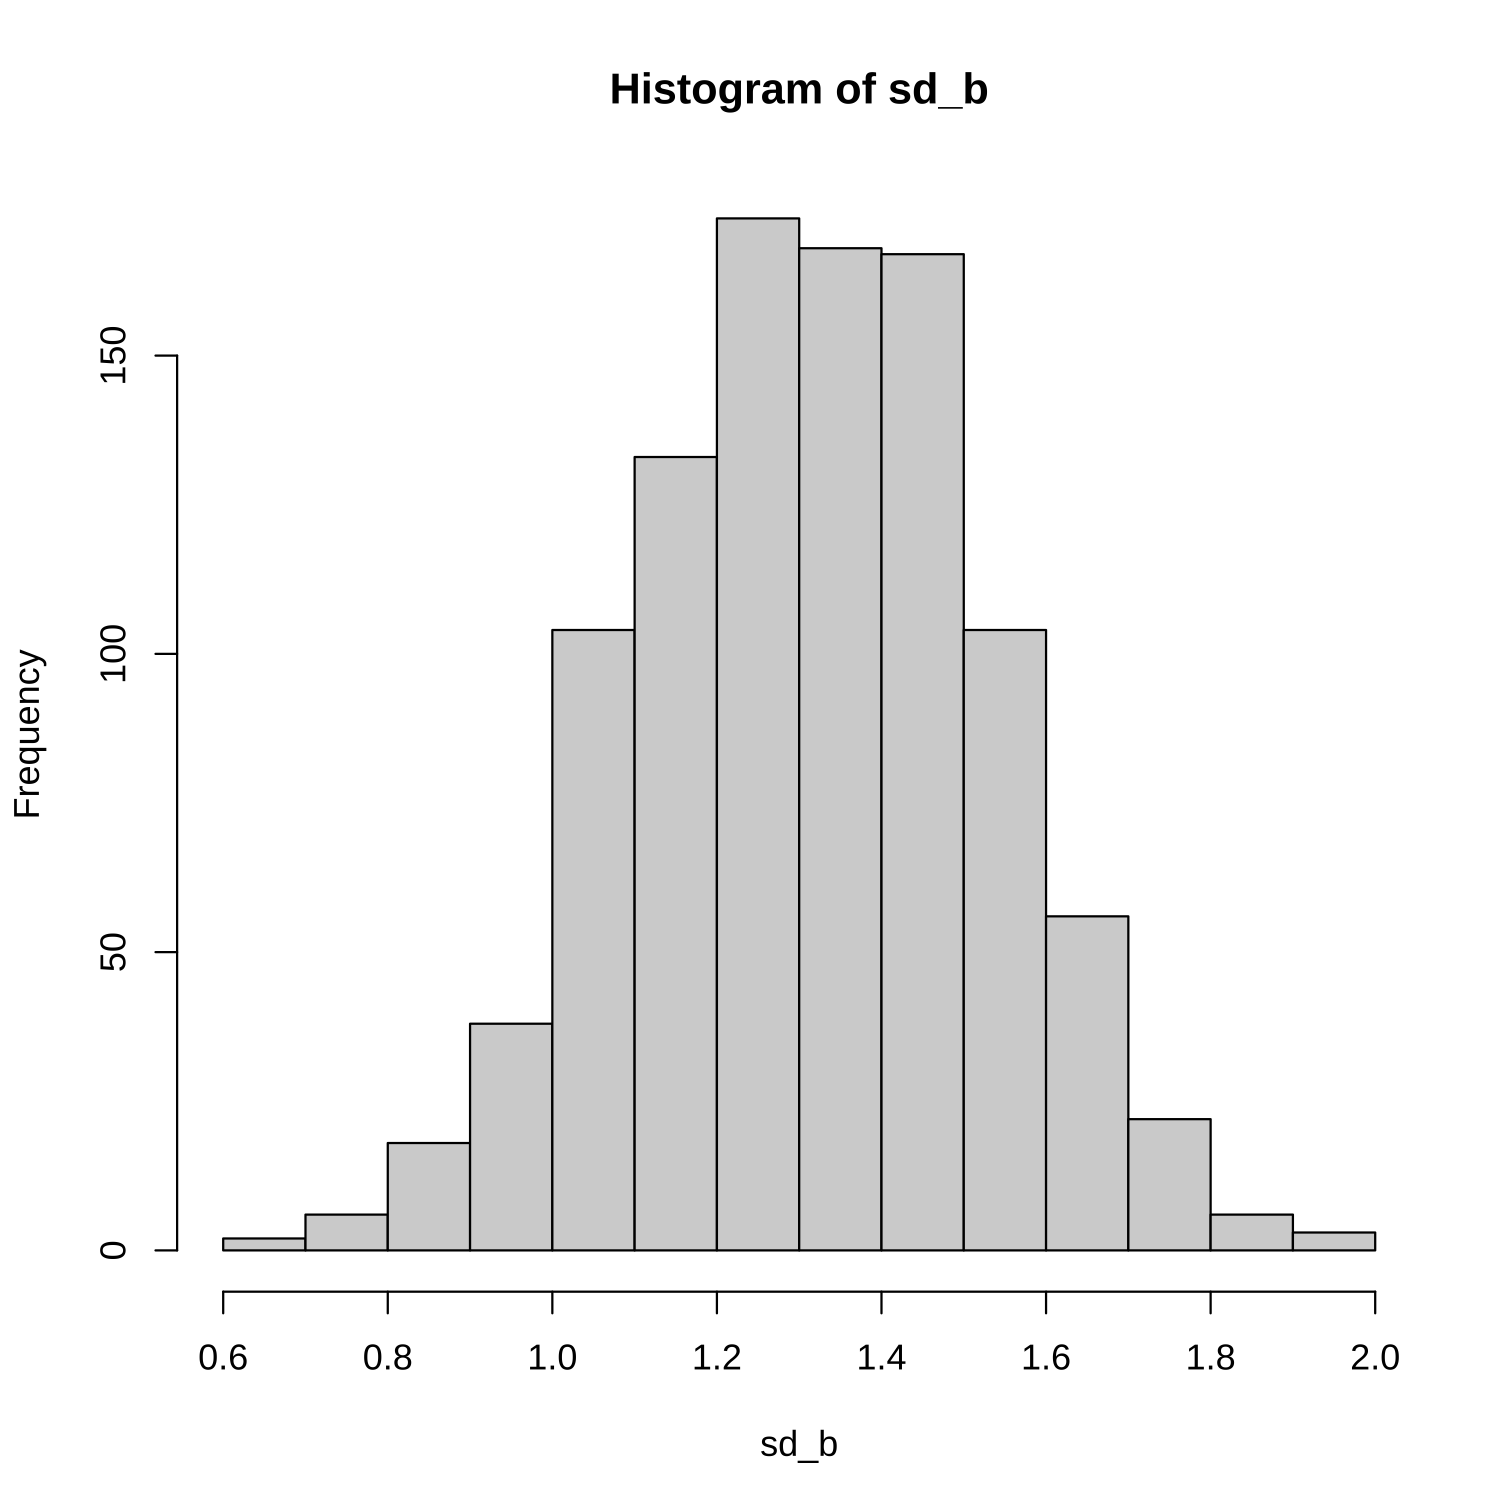
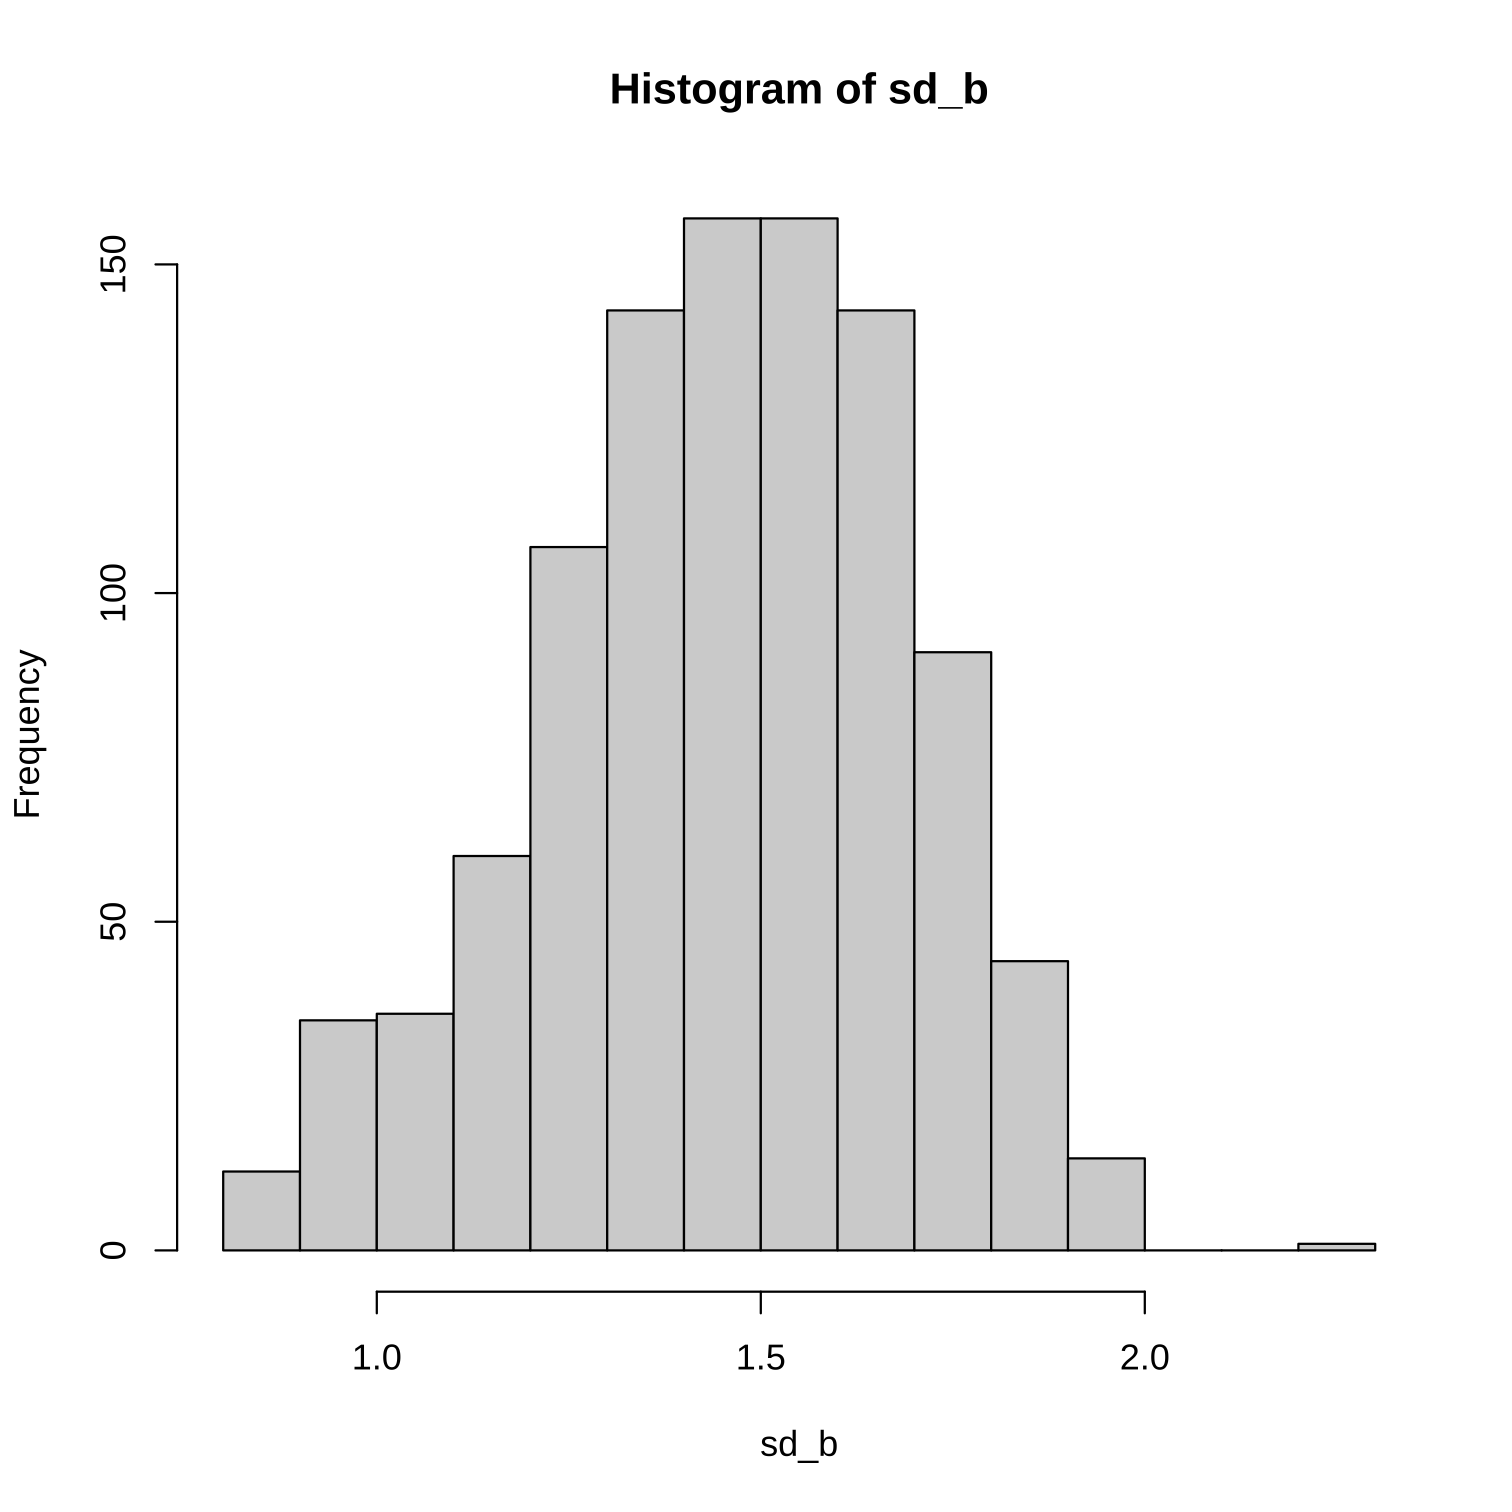
update

diff --git a/week_17/week_17.html b/week_17/week_17.html
@@ -1,7 +1,7 @@
 <!DOCTYPE html>
 <html lang="" xml:lang="">
   <head>
-    <title>Generliased Linear Model: Bootstrapping</title>
+    <title>Bootstrapping and Permutation Tests</title>
     <meta charset="utf-8" />
     <meta name="author" content="Winnie Xia" />
     <script src="libs/header-attrs/header-attrs.js"></script>
@@ -12,7 +12,7 @@
 class: center, middle, inverse, title-slide
 
 .title[
-# Generliased Linear Model: Bootstrapping
+# Bootstrapping and Permutation Tests
 ]
 .subtitle[
 ## Week 17
@@ -46,7 +46,7 @@ Bootstrap is a desirable approach when:
 - **the sample size is too small to draw a valid inference.**
 - **Reason**: it is a resampling method with replacement and recreates any number of resamples.
 ---
-# Let's breal down "bootstrap"
+# Let's break down "bootstrap"
 
 Bootstrap breaks down into the following steps:
 - decide how many bootstrap samples to perform.
@@ -61,7 +61,7 @@ Bootstrap breaks down into the following steps:
 
 
 ```r
-set.seed(123)
+set.seed(2021)
 n &lt;- 20
 s &lt;- rnorm(n = n,
            mean = 5.5,
@@ -72,13 +72,24 @@ str(bp_s)
 
 ```
 ## List of 5
-##  $ thetastar     : num [1:1000] 1.92 1.55 2.06 1.67 1.98 ...
+##  $ thetastar     : num [1:1000] 1.77 3 1.52 1.23 2.47 ...
 ##  $ func.thetastar: NULL
 ##  $ jack.boot.val : NULL
 ##  $ jack.boot.se  : NULL
 ##  $ call          : language bootstrap::bootstrap(x = s, nboot = 1000, theta = var)
 ```
+---
+# Bootstrapping Illustration in R
+The list item thetastar (a vector) contains each of the bootrap estimates of the statistic of interest (variance in the present example). It’s always good to plot a histogram of the bootstrap distribution.
 
+
+```r
+quickplot(bp_s$thetastar,
+          geom = "histogram",
+          bins = 25)
+```
+
+&lt;img src="week_17_files/figure-html/unnamed-chunk-2-1.png" width="504" /&gt;
 ---
 # Or we could write the bootstrap() manually
 
@@ -93,12 +104,12 @@ for (i in 1: 1000){
                    replace = TRUE)
 }
 
-sd_b &lt;- apply(B, 1, sd)
-hist(sd_b)
+sd_b &lt;- apply(B, 1, sd) # compute SD for each row
+hist(sd_b) # inspect the distribution of the SDs
 ```
 ]
 .pull-right[
-&lt;img src="week_17_files/figure-html/unnamed-chunk-2-1.png" width="504" /&gt;
+&lt;img src="week_17_files/figure-html/unnamed-chunk-3-1.png" width="504" /&gt;
 ]
 ---
 class: center, middle 
@@ -112,9 +123,6 @@ It means:
 - Then, we calculate the statistics of interests. 
 
 ---
-# Jackknife Illustration in R
-
----
 # *K*-cross Validation
 - **Divide the data into k parts and predict one left out segment based on a model of the remaining k − 1 segments;**
 - **Then assess distribution of prediction error.**
@@ -125,10 +133,95 @@ It means:
 # Permutation Tests
 - To compare outcomes in experiments, we often do a two-sample t-test. 
 - It assumes that data are randomly selected from the population, arrived in large samples (&gt;30), or normally distributed with equal variances between groups.
-- But we could also o a permutation test,**without any distributional assumptions.**
+- But we could also o a permutation test, **without any distributional assumptions.**
 
 ---
 # Permutation Tests in R
+
+```r
+set.seed(2021)
+dat &lt;- data.frame(group = c(rep("t", 10),
+                            rep("c", 10)),
+                  mark = c(rnorm(10, 69, 10),
+                           rnorm(10, 57, 10)))
+head(dat)
+```
+
+```
+##   group     mark
+## 1     t 67.77540
+## 2     t 74.52457
+## 3     t 72.48650
+## 4     t 72.59632
+## 5     t 77.98054
+## 6     t 49.77430
+```
+---
+# Permutation Test in R
+- First, we compute the difference in means.
+
+```r
+obs &lt;- mean(dat$mark[dat$group == "t"]) - 
+  mean(dat$mark[dat$group == "c"])
+obs
+```
+
+```
+## [1] 10.18717
+```
+
+- Then, we perform the *t* test.
+
+```r
+t.test(dat$mark[dat$group == "t"], dat$mark[dat$group == "c"])
+```
+
+```
+## 
+## 	Welch Two Sample t-test
+## 
+## data:  dat$mark[dat$group == "t"] and dat$mark[dat$group == "c"]
+## t = 2.0439, df = 16.694, p-value = 0.05708
+## alternative hypothesis: true difference in means is not equal to 0
+## 95 percent confidence interval:
+##  -0.3434257 20.7177593
+## sample estimates:
+## mean of x mean of y 
+##  72.03481  61.84764
+```
+
+---
+# Permutation Test in R
+.pull-left[
+
+```r
+d &lt;- numeric(1000)
+for (i in 1:1000){
+  dat2 &lt;- dat
+  dat$group &lt;- sample(dat2$group, 
+                      replace = FALSE)
+  d[i] &lt;- mean(dat$mark[dat$group == "t"]) - 
+  mean(dat$mark[dat$group == "c"])
+} 
+# Here, we re-assign groups labels randomly,
+# and then re-compute the difference in group 
+# means again;
+# we repeat these steps.
+# Eventually, this yields a distribution of differences.
+
+hist(d)
+abline(v = quantile(d, 0.95),
+       col = "blue",
+       lwd = 3)
+abline(v = obs,
+       col = "red",
+       lwd = 3)
+```
+]
+
+.pull-right[
+&lt;img src="week_17_files/figure-html/unnamed-chunk-7-1.png" width="504" /&gt;
+]
     </textarea>
 <style data-target="print-only">@media screen {.remark-slide-container{display:block;}.remark-slide-scaler{box-shadow:none;}}</style>
 <script src="https://remarkjs.com/downloads/remark-latest.min.js"></script>
